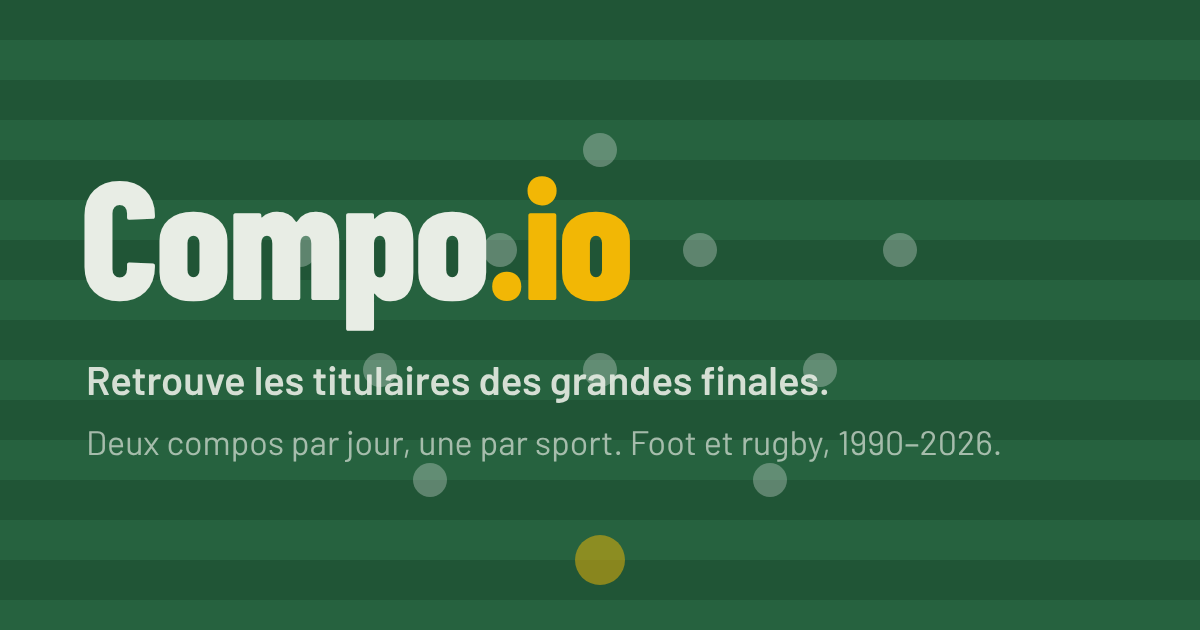
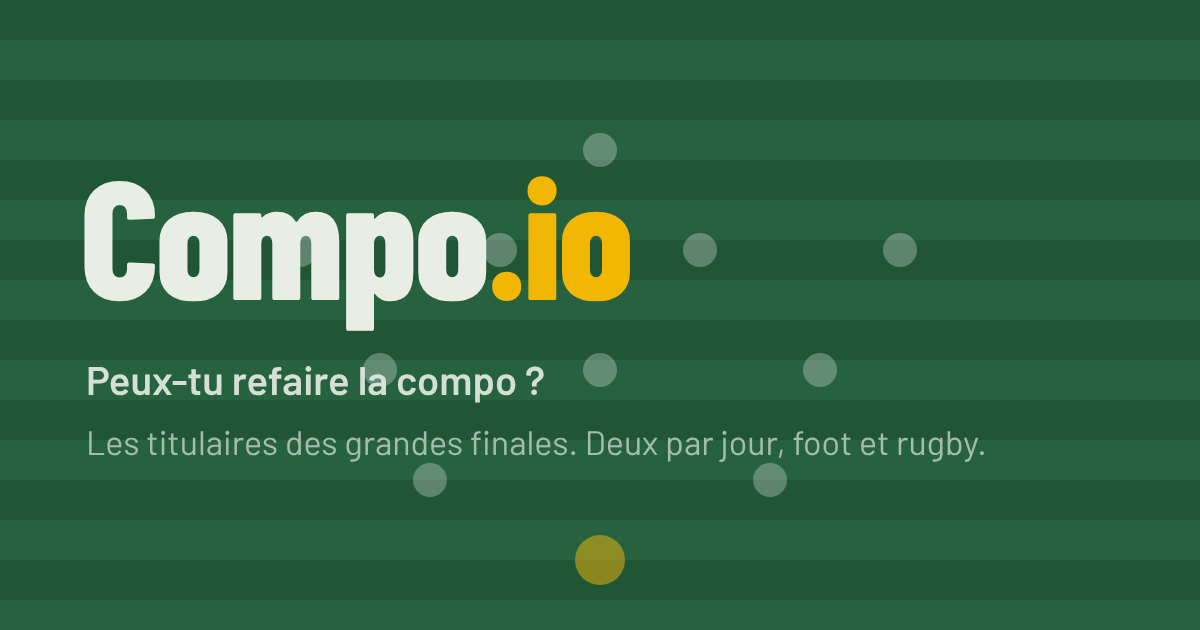
Le partage tient en deux lignes
FRANCE - BRESIL 98
  Peux-tu refaire la compo ?
  https://muksnuggets.github.io/Compo.io/

Plus de score, plus d'emoji, plus rien d'autre. L'affiche est construite
a partir des deux equipes et de l'annee sur deux chiffres ; le score du
match est ecarte, il n'apporte rien a quelqu'un qu'on invite a jouer.

La vignette du lien reprend la meme phrase, et l'image a ete refaite
avec.

Claude-Session: https://claude.ai/code/session_01VG3MfX4rpgJhcsiyThJQpb

Changed region(s): [[0.0617, 0.573, 0.6783, 0.6333], [0.0617, 0.6635, 0.8325, 0.7238]]

diff --git a/index.html b/index.html
@@ -18,8 +18,8 @@
 <!-- La vignette affichée quand on colle le lien dans une messagerie. -->
 <meta property="og:type" content="website">
 <meta property="og:site_name" content="Compo.io">
-<meta property="og:title" content="Compo.io — la compo du jour">
-<meta property="og:description" content="France–Brésil 98, Toulouse–Leinster… Retrouve les titulaires des grandes finales. Deux compos par jour, une par sport.">
+<meta property="og:title" content="Compo.io">
+<meta property="og:description" content="Peux-tu refaire la compo ? Les titulaires des grandes finales de foot et de rugby, deux par jour.">
 <!-- Absolue, et non relative : la plupart des robots de messagerie ignorent un
      chemin relatif. Donc à changer si le site déménage. -->
 <meta property="og:url" content="https://muksnuggets.github.io/Compo.io/">
@@ -399,6 +399,9 @@ $("hint").onclick=()=>{if(over)return;const todo=P.map((_,i)=>i).filter(i=>!foun
   const i=todo[Math.floor(Math.random()*todo.length)];hinted.add(i);const w=P[i].n.split(" "),last=w.length>1?w.slice(1).join(" "):w[0];
   $("pl"+i).querySelector(".nm").textContent=last[0]+"…";$("flash").textContent=`Indice : un nom en ${last[0].toUpperCase()}.`;$("inp").focus();};
 $("giveup").onclick=()=>end();
+// L'affiche du match pour le partage : FRANCE - BRESIL 98. Pas de score, il
+// n'apporte rien a quelqu'un qu'on invite a jouer.
+const affiche=m=>m.teams.map(t=>t.name).join(" - ").toUpperCase()+" "+String(m.yr).slice(-2);
 function end(){
   if(over)return;over=true;clearInterval(tick);$("inp").disabled=true;
   P.forEach((p,i)=>{if(!found.has(i)){const d=$("pl"+i);d.className=(p.coach?"coach":"pl")+" miss";d.querySelector(".nm").textContent=p.n;}});
@@ -421,15 +424,10 @@ function end(){
     $("rtxt").textContent=`${found.size}/${tot} trouvés en ${fmt(t)}.`
       +(found.size===tot?` Bonus de ${bonus} points pour ${reste} secondes restantes.`:"")
       +(hinted.size?` ${50*hinted.size} points retirés pour ${hinted.size} indice${hinted.size>1?"s":""}.`:"");
-    const s=streakOf(DAYN,M.sport);
     $("share").hidden=false;
     majClassement(found.size,hinted.size);
     $("share").onclick=async()=>{
-      const f=store.get(dailyKey(DAYN,M.sport))||{f:found.size,n:tot,p:pts};
-      const txt=`${M.sport==="foot"?"⚽":"🏉"} ${M.fx} — ${M.where}, ${M.yr}\n`
-        +`Retrouve la compo ! Moi : ${f.f}/${f.n}, ${f.p.toLocaleString("fr-FR")} pts`
-        +(s>1?` 🔥${s}`:"")+"\n\n"
-        +`Compo.io, jour n° ${DAYN}\n`+location.origin+location.pathname;
+      const txt=affiche(M)+"\nPeux-tu refaire la compo ?\n"+location.origin+location.pathname;
       try{await navigator.clipboard.writeText(txt);$("share").textContent="Copié !";
         setTimeout(()=>$("share").textContent="Partager",1800);}
       catch(e){prompt("Copie ce texte :",txt);}

diff --git a/tools/test_app.js b/tools/test_app.js
@@ -134,14 +134,13 @@ const verifie = (nom, cond, detail) => (cond ? ok : ko).push(nom + (cond ? '' : 
   // --- 9. le partage annonce le match, sans carres de couleur
   const partage = await p.evaluate(() => {
     const m = MATCHES.find(x => x.id === 'cdm-1998');
-    M = m; TI = 0;
-    const f = { f: 9, n: 12, p: 1180 };
-    return `${M.sport === 'foot' ? '⚽' : '🏉'} ${M.fx} — ${M.where}, ${M.yr}\n`
-      + `Retrouve la compo ! Moi : ${f.f}/${f.n}, ${f.p.toLocaleString('fr-FR')} pts\n\n`
-      + `Compo.io, jour n° ${DAYN}\n` + location.origin + location.pathname;
+    return affiche(m) + "\nPeux-tu refaire la compo ?\n" + location.origin + location.pathname;
   });
-  verifie('le partage nomme le match', /France 3–0 Brésil/.test(partage), partage);
-  verifie('plus un seul carre de couleur', !/[🟩🟥🟨]/u.test(partage), partage);
+  verifie('le partage est exactement les trois lignes voulues',
+    partage.split('\n')[0] === 'FRANCE - BRÉSIL 98'
+    && partage.split('\n')[1] === 'Peux-tu refaire la compo ?'
+    && partage.split('\n').length === 3, partage);
+  verifie('ni carre, ni score, ni emoji', !/[🟩🟥🟨⚽🏉🔥]|pts|\d\/\d/u.test(partage), partage);
 
   // --- 10. pas de debordement horizontal sur un petit telephone
   await p.setViewportSize({ width: 320, height: 700 });

diff --git a/tools/icones.js b/tools/icones.js
@@ -38,9 +38,9 @@ const vignette = `<svg xmlns="http://www.w3.org/2000/svg" viewBox="0 0 1200 630"
   <text x="80" y="300" font-family="Barlow Condensed" font-weight="800" font-size="168"
         letter-spacing="-3" fill="${CLAIR}">Compo<tspan fill="${J}">.io</tspan></text>
   <text x="86" y="395" font-family="Barlow" font-weight="600" font-size="40" fill="${CLAIR}" opacity=".9"
-    >Retrouve les titulaires des grandes finales.</text>
+    >Peux-tu refaire la compo ?</text>
   <text x="86" y="455" font-family="Barlow" font-weight="400" font-size="34" fill="${CLAIR}" opacity=".66"
-    >Deux compos par jour, une par sport. Foot et rugby, 1990–2026.</text></svg>`;
+    >Les titulaires des grandes finales. Deux par jour, foot et rugby.</text></svg>`;
 
 // Les polices sont embarquees en base64 : Chromium refuse de charger un
 // file:// depuis une page posee par setContent, et la fonte retombait alors
